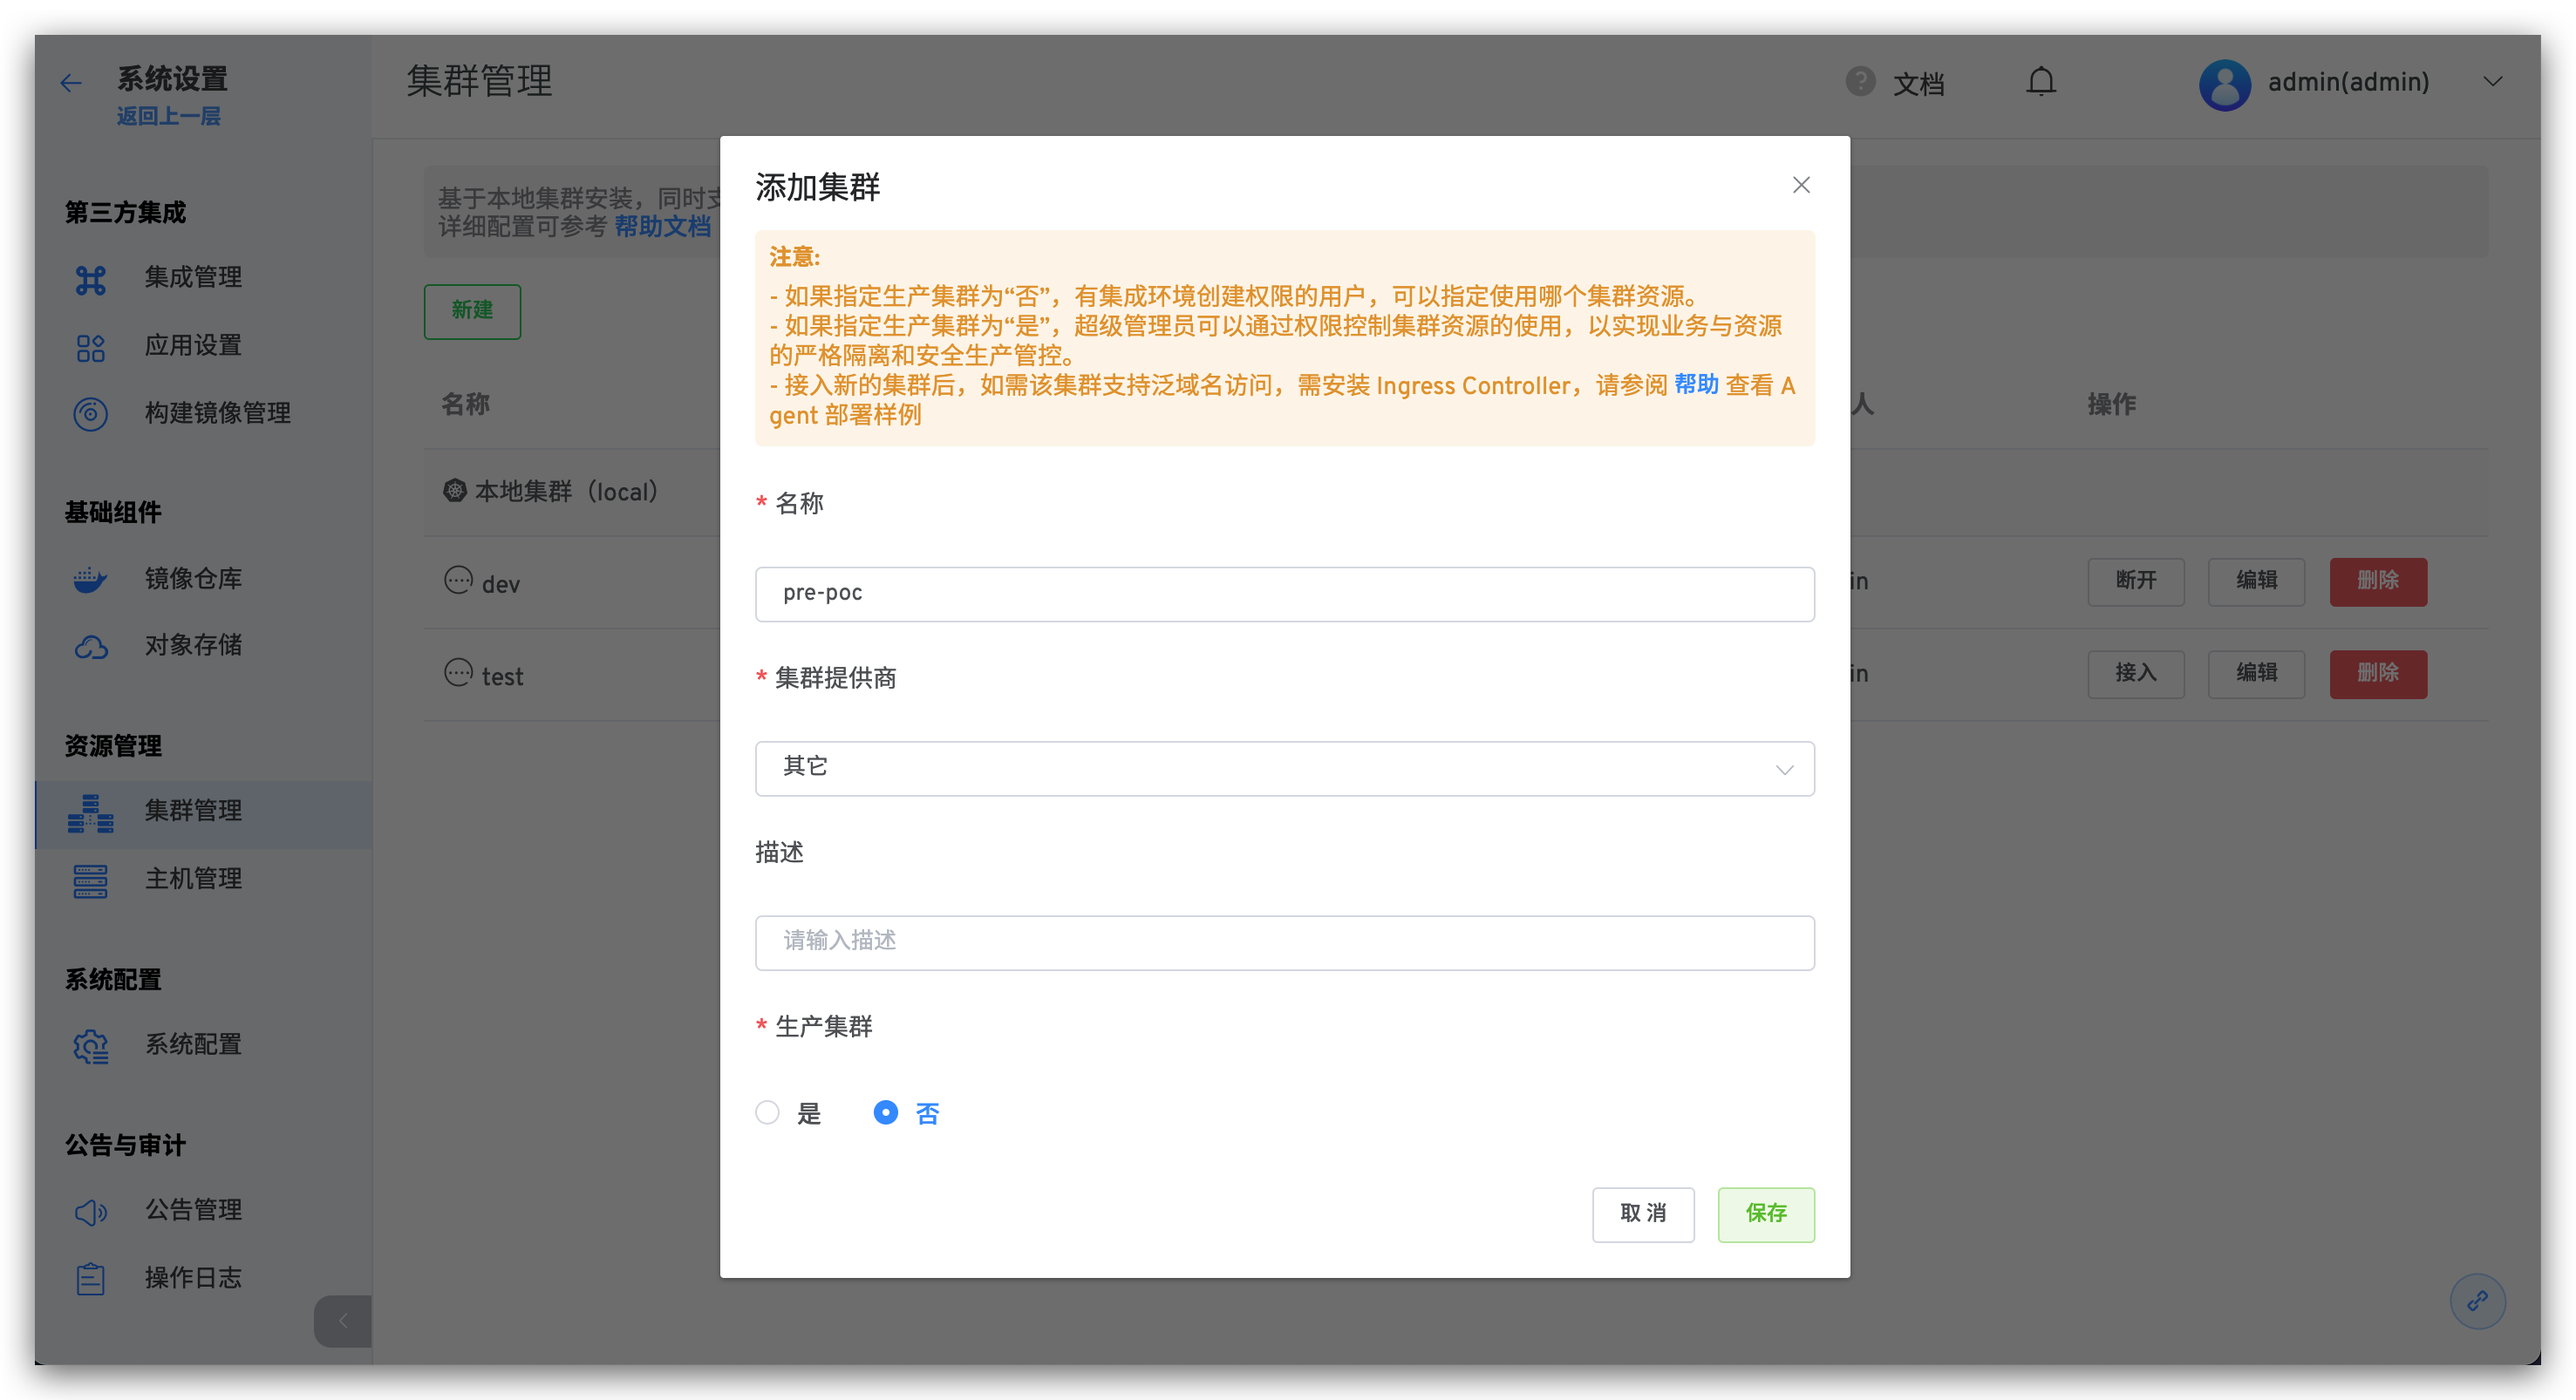
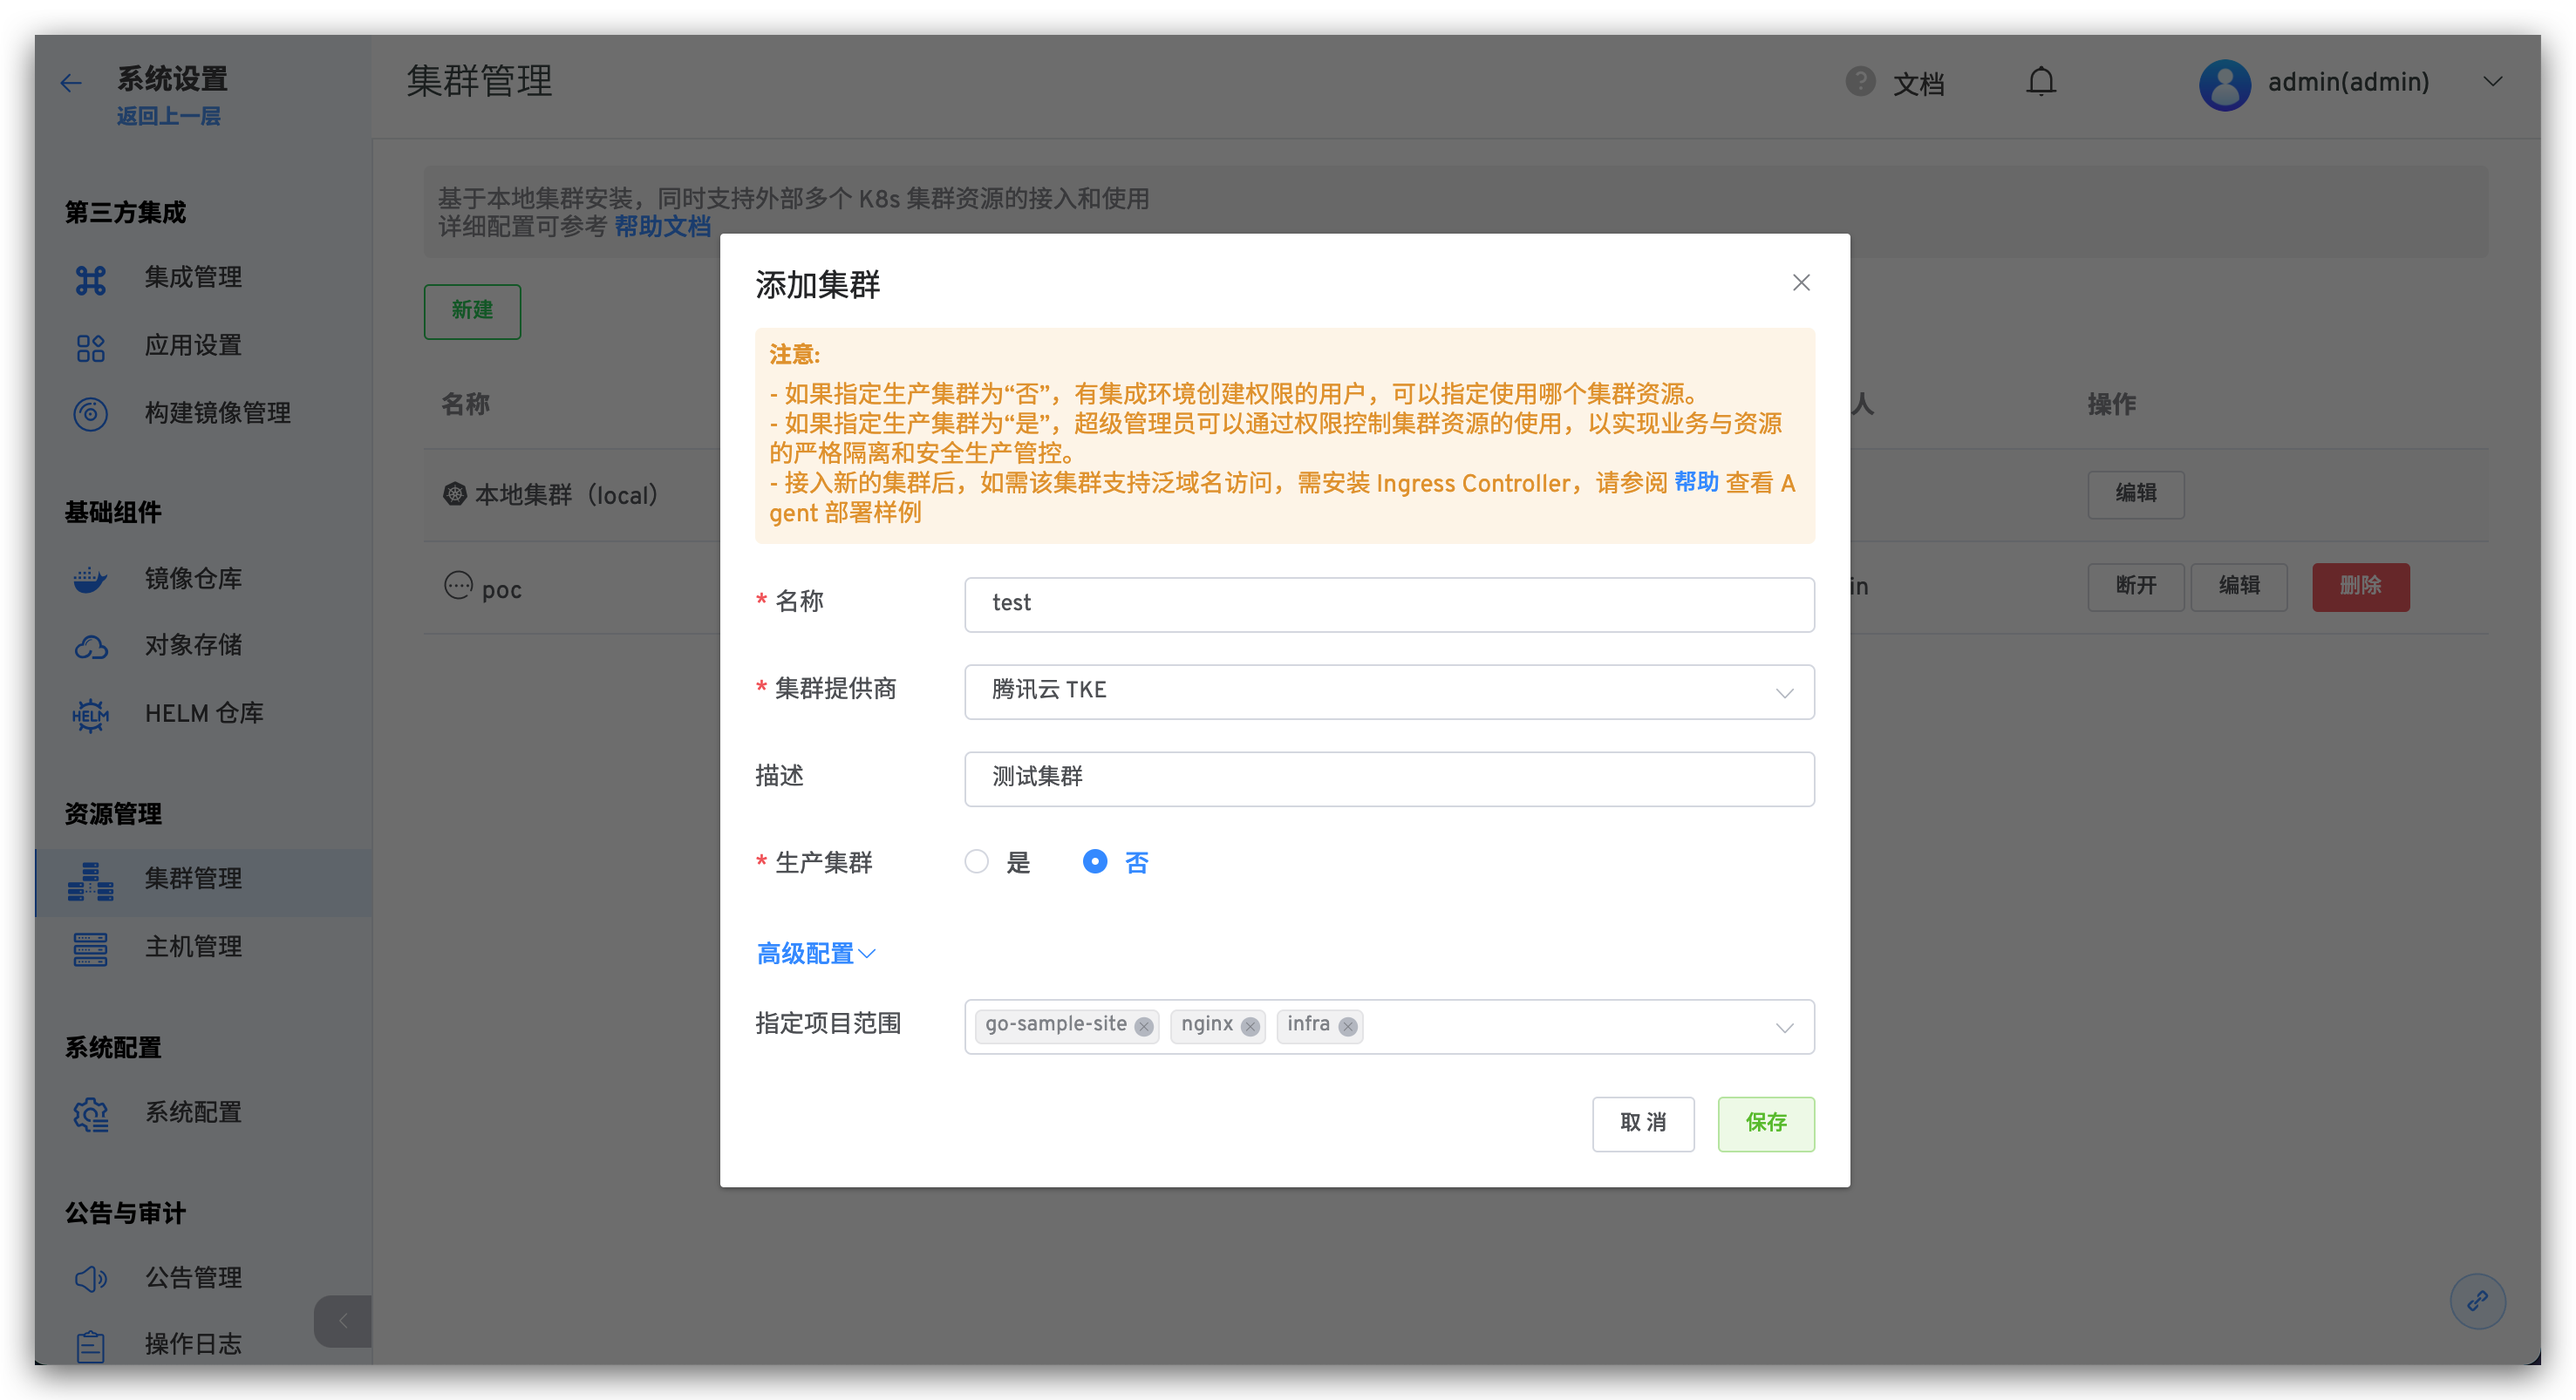
restrict which project can use in cluster creating

diff --git a/dev/09.系统设置/09.cluster_manage.md b/dev/09.系统设置/09.cluster_manage.md
@@ -19,10 +19,12 @@ permalink: /dev/pages/cluster_manage/
 参数说明：
 
 - `名称`：集群名称只支持小写字母、数字和中划线
+- `集群提供商`：该集群的提供商信息
 - `描述`： 该集群的用途描述信息
 - `生产集群`：
-  - 如果指定生产集群为“否”，有集成环境创建权限的用户，可以指定使用哪个集群资源。
-  - 如果指定生产集群为“是”，超级管理员可以通过权限控制集群资源的使用，以实现业务与资源的严格隔离和安全生产管控。
+  - 如果指定生产集群为「否」，有集成环境创建权限的用户，可以指定使用哪个集群资源。
+  - 如果指定生产集群为「是」，超级管理员可以通过权限控制集群资源的使用，以实现业务与资源的严格隔离和安全生产管控。
+- `指定项目范围`：指定该集群可被哪些项目使用。
 
 第 2 步：执行 Agent 安装脚本，如图所示：
 
